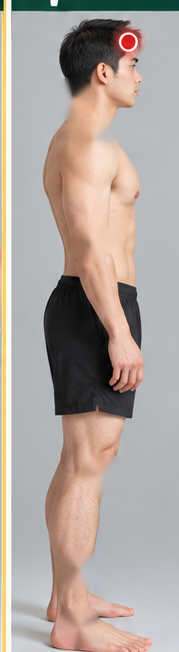
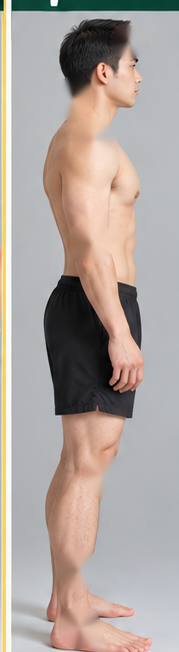
V8.8.5

Changed region(s): [[0.6145, 0.0307, 0.8101, 0.092]]

diff --git a/app.html b/app.html
@@ -8,7 +8,7 @@
 <meta name="viewport" content="width=device-width,initial-scale=1,maximum-scale=1">
 <meta name="theme-color" content="#062e24">
 <title>ThaiPain AI</title>
-<link rel="manifest" href="manifest.webmanifest?v=8.8.0-fourview">
+<link rel="manifest" href="manifest.webmanifest?v=8.8.5-rightfix">
 <meta name="apple-mobile-web-app-capable" content="yes">
 <meta name="apple-mobile-web-app-status-bar-style" content="black-translucent">
 <meta name="apple-mobile-web-app-title" content="ThaiPain AI">
@@ -32,6 +32,7 @@ input[type=text],input[type=number],select{width:100%;padding:11px;border:1px so
 .bodywrap{display:grid;grid-template-columns:1.15fr .85fr;gap:8px}.bodysvg{background:linear-gradient(180deg,#0d4638,#082c24);border-radius:18px;padding:6px;min-height:310px;position:relative}.bodysvg svg{width:100%;height:300px}.hot{fill:#f0d8c1;stroke:#baa894;stroke-width:2;cursor:pointer}.hot.sel{fill:#f64f42;stroke:#ffd36b;filter:drop-shadow(0 0 8px #f74)}.bodyNote{font-size:11px;color:white;background:#0008;border-radius:12px;padding:8px;position:absolute;left:10px;right:10px;bottom:10px}
 .sidepanel{display:flex;flex-direction:column;gap:7px}.pill{background:#e8f0e9;color:var(--deep);border-radius:99px;padding:6px 8px;font-size:10px;font-weight:800}.legend{font-size:10px;color:#66756d}
 .camera{position:relative;aspect-ratio:3/4;max-height:500px;border-radius:19px;overflow:hidden;background:#071a15;border:1px solid #426c60}video,canvas{position:absolute;inset:0;width:100%;height:100%;object-fit:cover;transform:scaleX(-1)}.camTag,.camStat,.camGuide{position:absolute;z-index:5;color:white;font-size:10px;border-radius:99px;padding:6px 8px}.camTag{top:9px;left:9px;background:#0a4c3bdd}.camStat{top:9px;right:9px;background:#0009}.camGuide{left:10px;right:10px;bottom:10px;background:#000b;text-align:center;border-radius:11px}
+.romLiveBadge{position:absolute;z-index:6;left:50%;top:14px;transform:translateX(-50%);min-width:118px;text-align:center;background:rgba(3,38,30,.88);border:1px solid rgba(244,215,127,.9);color:#fff;border-radius:15px;padding:8px 12px;box-shadow:0 8px 24px #0006;backdrop-filter:blur(4px)}.romLiveBadge .romLabel{font-size:9px;opacity:.82;letter-spacing:.04em}.romLiveBadge .romValue{font-size:26px;line-height:1;font-weight:900;color:#f4d77f;margin-top:2px}.romLiveBadge .romDir{font-size:9px;margin-top:3px;opacity:.9}.romLiveBadge.measure{box-shadow:0 0 0 3px rgba(244,215,127,.25),0 8px 24px #0006}
 .scorebox{background:linear-gradient(180deg,#0b4939,#062d24);border:1px solid #806c3b;border-radius:18px;padding:14px;color:white;text-align:center}.scorebox .v{font-size:40px;font-weight:900;color:#f4d47d}.grade{height:8px;border-radius:99px;background:linear-gradient(90deg,#35aa69,#efd05a,#e54d4d)}
 .question{padding:9px 0;border-bottom:1px solid #e6dece}.toggle{display:flex;gap:7px;margin-top:6px}.toggle button{flex:1;border:1px solid #d0c3ae;background:white;border-radius:11px;padding:8px}.toggle .selected{background:var(--deep);color:white}.ok{background:#e8f6ec;border-left:5px solid var(--green);border-radius:12px;padding:10px}.warn{background:#fff0ed;border-left:5px solid var(--red);border-radius:12px;padding:10px}
 .qrbox{display:flex;gap:10px;align-items:center;background:#f3ecde;border:1px solid #ddd0b9;border-radius:16px;padding:10px}#qrcode{width:92px;height:92px;background:white;padding:5px;border-radius:8px}.patientText{font-size:12px}.patientText b{font-size:18px;color:var(--deep)}
@@ -79,14 +80,25 @@ table{width:100%;border-collapse:collapse;font-size:10px}th,td{padding:7px;borde
 .camActions{display:grid;grid-template-columns:1fr 1fr;gap:8px;margin-top:12px}.camStatus{display:flex;gap:7px;align-items:center;border-radius:12px;padding:9px;background:#edf6ef;border:1px solid #c4dbc9;font-size:11px;margin-top:8px}
 
 .realHumanMap{position:relative;background:linear-gradient(180deg,#0d4638,#082c24);border-radius:18px;overflow:hidden;min-height:310px}
-.realHumanMap img{width:100%;height:100%;min-height:310px;object-fit:cover;display:block}.painHot{z-index:3}.painHot:not(.sel){background:rgba(255,255,255,.03);border-color:rgba(255,255,255,.30)}.painHot:not(.sel)::after{background:rgba(255,255,255,.05)}
-.painHot{position:absolute;width:46px;height:46px;border-radius:50%;border:2px solid transparent;background:rgba(255,60,45,.10);cursor:pointer;transform:translate(-50%,-50%)}
-.painHot::after{content:"";position:absolute;inset:10px;border-radius:50%;background:rgba(255,60,45,.25)}
-.painHot.sel{border-color:#ffd36b;background:rgba(255,70,50,.28);box-shadow:0 0 0 12px rgba(255,70,50,.13),0 0 18px rgba(255,70,50,.75)}
+.realHumanMap img{width:100%;height:100%;min-height:310px;object-fit:cover;display:block}.painHot{z-index:3}.painHot:not(.sel){background:transparent;border-color:transparent;box-shadow:none}.painHot:not(.sel)::after{background:transparent}
+.painHot{position:absolute;width:46px;height:46px;border-radius:50%;border:0;background:transparent;cursor:pointer;transform:translate(-50%,-50%);outline:none;-webkit-tap-highlight-color:transparent}
+.painHot::after{content:"";position:absolute;inset:10px;border-radius:50%;background:transparent}
+.painHot:focus,.painHot:focus-visible{outline:none}
+.painHot.sel{border:2px solid #ffd36b;background:rgba(255,70,50,.28);box-shadow:0 0 0 12px rgba(255,70,50,.13),0 0 18px rgba(255,70,50,.75)}
 .painHot.sel::after{background:#f64f42}
 .realHumanMap .bodyNote{z-index:5}
 
 .viewTabs{display:grid;grid-template-columns:repeat(4,1fr);gap:6px;margin:10px 0}.viewTab{border:1px solid #d9cfbd;background:#f4efe5;color:var(--deep);border-radius:12px;padding:8px 4px;font:inherit;font-size:10px;font-weight:800}.viewTab.active{background:var(--deep);color:#fff;border-color:#cda84d;box-shadow:0 0 0 2px #e5c56f inset}.selectedAreas{display:flex;flex-wrap:wrap;gap:5px;margin-top:7px}.areaTag{font-size:9px;padding:5px 7px;border-radius:99px;background:#fff;border:1px solid #d7c9b2;color:var(--deep);font-weight:700}.realHumanMap img{object-position:center top}.painHot{touch-action:manipulation}.mapHint{font-size:10px;color:#fff;background:#0008;padding:7px 9px;border-radius:10px;position:absolute;left:10px;top:10px;z-index:6}.clearPain{position:absolute;right:10px;top:10px;z-index:6;border:0;border-radius:10px;padding:7px 9px;background:#fffE;color:var(--deep);font-weight:800}
+
+/* v8.8.5: all human assets fit identically on mobile; right view is mirrored left profile */
+.realHumanMap img, #humanViewImg{
+  width:100% !important;
+  height:100% !important;
+  object-fit:contain !important;
+  object-position:center center !important;
+}
+#humanViewImg.view-right{ transform:scaleX(-1) !important; }
+
 </style>
 </head>
 <body>
@@ -129,7 +141,7 @@ table{width:100%;border-collapse:collapse;font-size:10px}th,td{padding:7px;borde
  </div>
  <div class="bodywrap">
   <div class="realHumanMap">
-   <img id="painHumanImg" src="human_front.png?v=8.8.0-fourview" alt="Four-view real human pain map">
+   <img id="painHumanImg" src="human_front.png?v=8.8.5-rightfix" alt="Four-view real human pain map">
    <div class="mapHint" id="viewHint">ด้านหน้า</div>
    <button class="clearPain" onclick="clearPainAreas()">ล้างจุด</button>
    <div id="painHotLayer"></div>
@@ -149,7 +161,7 @@ table{width:100%;border-collapse:collapse;font-size:10px}th,td{padding:7px;borde
 
 <section id="s3" class="screen"><div class="card">
  <div class="titleRow"><div class="num">03</div><div><h2>AI Body Scan</h2><div class="sub">Real-time pose landmarks</div></div></div>
- <div class="camera"><video id="video" autoplay playsinline muted></video><canvas id="overlay"></canvas><div class="camTag">● LIVE POSE AI</div><div id="aiStatus" class="camStat">Not started</div><div class="camGuide">ยืนให้เห็นศีรษะและหัวไหล่ครบ</div></div>
+ <div class="camera"><video id="video" autoplay playsinline muted></video><canvas id="overlay"></canvas><div class="camTag">● LIVE POSE AI <span id="camFacingTag"></span></div><div id="aiStatus" class="camStat">Not started</div><div id="scanRomBadge" class="romLiveBadge"><div class="romLabel">LIVE ROM / HEAD-TURN PROXY</div><div id="scanRomLive" class="romValue">0°</div><div id="scanRomDir" class="romDir">ตรงกลาง</div></div><div class="camGuide">หันศีรษะซ้าย–ขวา • ค่ามุมจะแสดงแบบ Real-time</div></div>
  <div class="conf"><div class="confDot"></div><div><b>AI Data Quality:</b> <span id="confidenceUI">Ready</span><div class="sub" style="margin:0">ระบบจะแจ้งหากแสงน้อยหรือเห็นร่างกายไม่ครบ</div></div></div>
 <button class="btn deep" onclick="startAI()">เปิดกล้อง + AI</button>
 <button class="btn soft" onclick="openCameraHelp()">🛠 แก้ปัญหากล้อง / Camera Permission</button>
@@ -202,7 +214,7 @@ table{width:100%;border-collapse:collapse;font-size:10px}th,td{padding:7px;borde
 <section id="s9" class="screen"><div class="card">
  <div class="titleRow"><div class="num">09</div><div><h2>Before / After</h2><div class="sub">วัดผลหลังการดูแล</div></div></div>
  <div class="row"><div class="metric"><div class="label">Pain AFTER</div><div class="v"><span id="painAfterTxt">3</span>/10</div><input id="painAfter" class="range" type="range" min="0" max="10" value="3" oninput="painAfterTxt.textContent=this.value"></div><div class="metric"><div class="label">Function AFTER</div><div class="v"><span id="funcAfterTxt">3</span>/10</div><input id="funcAfter" class="range" type="range" min="0" max="10" value="3" oninput="funcAfterTxt.textContent=this.value"></div></div>
- <div class="camera" style="margin-top:8px"><video id="videoAfter" autoplay playsinline muted></video><canvas id="overlayAfter"></canvas><div class="camTag">● AFTER AI</div><div id="aiStatusAfter" class="camStat">Ready</div><div class="camGuide">หันศีรษะซ้าย–ขวา แล้วจับค่า 8 วินาที</div></div>
+ <div class="camera" style="margin-top:8px"><video id="videoAfter" autoplay playsinline muted></video><canvas id="overlayAfter"></canvas><div class="camTag">● AFTER AI <span id="camFacingAfterTag"></span></div><div id="aiStatusAfter" class="camStat">Ready</div><div id="scanRomAfterBadge" class="romLiveBadge"><div class="romLabel">LIVE ROM AFTER</div><div id="scanRomAfterLive" class="romValue">0°</div><div id="scanRomAfterDir" class="romDir">ตรงกลาง</div></div><div class="camGuide">หันศีรษะซ้าย–ขวา • ค่ามุมจะแสดงแบบ Real-time</div></div>
  <div class="grid2" style="margin-top:8px"><div class="metric dark"><div class="label">AFTER LEFT</div><div id="leftAfterMax" class="v">0°</div></div><div class="metric dark"><div class="label">AFTER RIGHT</div><div id="rightAfterMax" class="v">0°</div></div></div>
  <button class="btn gold" onclick="measureAfter()">จับค่า AFTER 8 วินาที</button>
  <button class="btn deep" onclick="finishAfter()">คำนวณผล + บันทึกเคส</button>
@@ -249,7 +261,7 @@ table{width:100%;border-collapse:collapse;font-size:10px}th,td{padding:7px;borde
 <div class="camWarn"><b>ถ้ายังไม่ได้:</b><br>Android → Settings → Apps → Chrome → Permissions → Camera → Allow while using the app<br>หรือ Chrome → Settings → Site settings → Camera</div>
 <div class="camActions"><button class="btn deep" onclick="retryCameraFromHelp()">🔄 ลองเปิดกล้องอีกครั้ง</button><button class="btn gold" onclick="closeCameraHelp()">ปิด</button></div>
 </div></div>
-<div class="footer">ThaiPain AI v8.8 • Four-View Interactive Pain Map • Ancient Wisdom. Intelligent Care.</div>
+<div class="footer">ThaiPain AI v8.8.2 • Four-View Interactive Pain Map • Ancient Wisdom. Intelligent Care.</div>
 
 <script src="https://cdn.jsdelivr.net/npm/qrcodejs@1.0.0/qrcode.min.js"></script>
 <script src="https://cdn.jsdelivr.net/npm/html2canvas@1.4.1/dist/html2canvas.min.js"></script>
@@ -259,6 +271,9 @@ import {PoseLandmarker,FilesetResolver,DrawingUtils} from "https://cdn.jsdelivr.
 
 window.state={role:'guest',patientId:'TP-'+Date.now().toString().slice(-6),area:'',areas:[],pain:7,func:6,left:0,right:0,posture:78,scoreBefore:68,painAfter:3,funcAfter:3,leftAfter:0,rightAfter:0,scoreAfter:0,treatmentSeconds:0};
 window.ai={landmarker:null,stream:null,phase:'before',measuring:false,leftMax:0,rightMax:0,leftAfterMax:0,rightAfterMax:0,postureSamples:[]};
+const isMobileDevice=()=>/Android|iPhone|iPad|iPod|Mobile/i.test(navigator.userAgent)||((navigator.maxTouchPoints||0)>1&&Math.min(screen.width,screen.height)<900);
+const preferredFacingMode=()=>isMobileDevice()?'environment':'user';
+function applyCameraMirror(videoEl,canvasEl,facing){const mirror=facing==='user';if(videoEl)videoEl.style.transform=mirror?'scaleX(-1)':'none';if(canvasEl)canvasEl.style.transform=mirror?'scaleX(-1)':'none';}
 const v=document.getElementById('video'),c=document.getElementById('overlay'),cx=c.getContext('2d'),va=document.getElementById('videoAfter'),ca=document.getElementById('overlayAfter'),cxa=ca.getContext('2d');
 progress.innerHTML=Array.from({length:10},(_,i)=>`<div class="prog"></div>`).join('');
 
@@ -266,13 +281,13 @@ window.loginAs=(r)=>{state.role=r;roleBadge.textContent=r==='patient'?'Patient':
 function makeQR(){qrcode.innerHTML='';new QRCode(qrcode,{text:state.patientId,width:82,height:82,colorDark:'#06382d',colorLight:'#ffffff'})}
 window.go=(n)=>{document.querySelectorAll('.screen').forEach(x=>x.classList.remove('active'));const id=typeof n==='number'?'s'+n:n;document.getElementById(id).classList.add('active');document.querySelectorAll('.prog').forEach((x,i)=>x.classList.toggle('on',typeof n==='number'&&i<n));window.scrollTo({top:0,behavior:'smooth'})};
 const painViews={
- front:{label:'ด้านหน้า',img:'human_front.png?v=8.8.0-fourview',zones:[
+ front:{label:'ด้านหน้า',img:'human_front.png?v=8.8.5-rightfix',zones:[
   ['หน้าผาก',50,10],['คอด้านหน้า',50,19],['ไหล่ขวา',30,25],['ไหล่ซ้าย',70,25],['หน้าอก',50,35],['ท้อง',50,50],['ศอกขวา',18,47],['ศอกซ้าย',82,47],['ข้อมือขวา',14,62],['ข้อมือซ้าย',86,62],['เข่าขวา',34,76],['เข่าซ้าย',66,76],['ข้อเท้าขวา',32,92],['ข้อเท้าซ้าย',68,92]]},
- back:{label:'ด้านหลัง',img:'human_back.png?v=8.8.0-fourview',zones:[
+ back:{label:'ด้านหลัง',img:'human_back.png?v=8.8.5-rightfix',zones:[
   ['คอ',50,21],['บ่าขวา',32,29],['บ่าซ้าย',69,29],['หลังส่วนบน',50,39],['หลังส่วนล่าง',50,62],['ศอกขวา',22,56],['ศอกซ้าย',80,56],['สะโพกขวา',37,86],['สะโพกซ้าย',67,86],['น่องขวา',38,94],['น่องซ้าย',63,94]]},
- left:{label:'ด้านซ้าย',img:'human_left.png?v=8.8.0-fourview',zones:[
+ left:{label:'ด้านซ้าย',img:'human_left.png?v=8.8.5-rightfix',zones:[
   ['ศีรษะซ้าย',52,10],['คอซ้าย',50,19],['หัวไหล่ซ้าย',48,26],['ต้นแขนซ้าย',43,36],['ศอกซ้าย',42,47],['ข้อมือซ้าย',40,60],['สะโพกซ้าย',49,67],['เข่าซ้าย',53,78],['น่องซ้าย',54,87],['ข้อเท้าซ้าย',55,95]]},
- right:{label:'ด้านขวา',img:'human_right.png?v=8.8.0-fourview',zones:[
+ right:{label:'ด้านขวา',img:'human_right.png?v=8.8.5-rightfix',zones:[
   ['ศีรษะขวา',48,10],['คอขวา',50,19],['หัวไหล่ขวา',52,26],['ต้นแขนขวา',57,36],['ศอกขวา',58,47],['ข้อมือขวา',60,60],['สะโพกขวา',51,67],['เข่าขวา',47,78],['น่องขวา',46,87],['ข้อเท้าขวา',45,95]]}
 };
 window.currentPainView='front';
@@ -294,7 +309,7 @@ async function initPose(){
  ai.landmarker=await PoseLandmarker.createFromOptions(vision,{baseOptions:{modelAssetPath:"https://storage.googleapis.com/mediapipe-models/pose_landmarker/pose_landmarker_lite/float16/1/pose_landmarker_lite.task",delegate:"CPU"},runningMode:"VIDEO",numPoses:1,minPoseDetectionConfidence:.5,minPosePresenceConfidence:.5,minTrackingConfidence:.5});
  aiStatus.textContent='AI Ready';
 }
-window.startAI=async()=>{try{await initPose();if(!ai.stream)ai.stream=await navigator.mediaDevices.getUserMedia({video:{facingMode:'user',width:{ideal:720},height:{ideal:960}},audio:false});v.srcObject=ai.stream;await v.play();requestAnimationFrame(()=>loop(v,c,cx,'before'))}catch(e){alert('เปิดกล้องไม่ได้: '+e.message)}};
+window.startAI=async()=>{try{await initPose();const facing=preferredFacingMode();if(ai.stream){ai.stream.getTracks().forEach(t=>t.stop());ai.stream=null}ai.stream=await navigator.mediaDevices.getUserMedia({video:{facingMode:{ideal:facing},width:{ideal:720},height:{ideal:960}},audio:false});v.srcObject=ai.stream;applyCameraMirror(v,c,facing);if(window.camFacingTag)camFacingTag.textContent=facing==='environment'?'• กล้องหลัง':'• กล้องหน้า';await v.play();requestAnimationFrame(()=>loop(v,c,cx,'before'))}catch(e){alert('เปิดกล้องไม่ได้: '+e.message)}};
 function fit(vv,cc){if(vv.videoWidth&&cc.width!==vv.videoWidth){cc.width=vv.videoWidth;cc.height=vv.videoHeight}}
 function yaw(lm){const n=lm[0],le=lm[7],re=lm[8];if(!n||!le||!re)return 0;const span=Math.max(Math.abs(re.x-le.x),.02),mid=(le.x+re.x)/2;return Math.max(-70,Math.min(70,((n.x-mid)/(span/2))*45))}
 function postureMetric(lm){
@@ -308,12 +323,12 @@ function loop(vv,cc,xx,phase){
   const stat=phase==='before'?aiStatus:aiStatusAfter;
   if(r.landmarks?.length){
    const lm=r.landmarks[0],du=new DrawingUtils(xx);du.drawConnectors(lm,PoseLandmarker.POSE_CONNECTIONS,{color:'#55f0ad',lineWidth:4});du.drawLandmarks(lm,{color:'#f2ce72',radius:3});stat.textContent='Pose detected ✓';
-   const y=yaw(lm);if(phase==='before'){liveYaw.textContent=(y>=0?'+':'')+y.toFixed(0)+'°';ai.postureSamples.push(postureMetric(lm));if(ai.postureSamples.length>30)ai.postureSamples.shift();if(ai.measuring&&ai.phase==='before'){if(y<0)ai.leftMax=Math.max(ai.leftMax,Math.abs(y));else ai.rightMax=Math.max(ai.rightMax,y);leftMax.textContent=ai.leftMax.toFixed(0)+'°';rightMax.textContent=ai.rightMax.toFixed(0)+'°'}}else if(ai.measuring&&ai.phase==='after'){if(y<0)ai.leftAfterMax=Math.max(ai.leftAfterMax,Math.abs(y));else ai.rightAfterMax=Math.max(ai.rightAfterMax,y);leftAfterMax.textContent=ai.leftAfterMax.toFixed(0)+'°';rightAfterMax.textContent=ai.rightAfterMax.toFixed(0)+'°'}
+   const y=yaw(lm);const absY=Math.abs(y);const dir=absY<3?'ตรงกลาง':(y<0?'หันซ้าย':'หันขวา');if(phase==='before'){liveYaw.textContent=(y>=0?'+':'')+y.toFixed(0)+'°';if(window.scanRomLive)scanRomLive.textContent=absY.toFixed(0)+'°';if(window.scanRomDir)scanRomDir.textContent=dir;if(window.scanRomBadge)scanRomBadge.classList.toggle('measure',!!(ai.measuring&&ai.phase==='before'));ai.postureSamples.push(postureMetric(lm));if(ai.postureSamples.length>30)ai.postureSamples.shift();if(ai.measuring&&ai.phase==='before'){if(y<0)ai.leftMax=Math.max(ai.leftMax,absY);else ai.rightMax=Math.max(ai.rightMax,y);leftMax.textContent=ai.leftMax.toFixed(0)+'°';rightMax.textContent=ai.rightMax.toFixed(0)+'°'}}else{if(window.scanRomAfterLive)scanRomAfterLive.textContent=absY.toFixed(0)+'°';if(window.scanRomAfterDir)scanRomAfterDir.textContent=dir;if(window.scanRomAfterBadge)scanRomAfterBadge.classList.toggle('measure',!!(ai.measuring&&ai.phase==='after'));if(ai.measuring&&ai.phase==='after'){if(y<0)ai.leftAfterMax=Math.max(ai.leftAfterMax,absY);else ai.rightAfterMax=Math.max(ai.rightAfterMax,y);leftAfterMax.textContent=ai.leftAfterMax.toFixed(0)+'°';rightAfterMax.textContent=ai.rightAfterMax.toFixed(0)+'°'}}
   }else stat.textContent='No pose';
  }catch(e){}}
  requestAnimationFrame(()=>loop(vv,cc,xx,phase))
 }
-window.measureBefore=()=>{if(!ai.stream){alert('กรุณาเปิดกล้องก่อน');return}ai.leftMax=0;ai.rightMax=0;ai.phase='before';ai.measuring=true;setTimeout(()=>{ai.measuring=false;alert('บันทึก BEFORE แล้ว')},8000)};
+window.measureBefore=()=>{if(!ai.stream){alert('กรุณาเปิดกล้องก่อน');return}ai.leftMax=0;ai.rightMax=0;ai.phase='before';ai.measuring=true;if(window.scanRomBadge)scanRomBadge.classList.add('measure');setTimeout(()=>{ai.measuring=false;if(window.scanRomBadge)scanRomBadge.classList.remove('measure');alert('บันทึก BEFORE แล้ว • ซ้าย '+ai.leftMax.toFixed(0)+'° • ขวา '+ai.rightMax.toFixed(0)+'°')},8000)};
 function calcScore(pain,func,l,r,posture){const rlim=Math.max(0,60-Math.min(l||35,r||35));return Math.round(Math.min(100,pain*4+func*2+rlim*.65+(100-posture)*.18))}
 window.finishBefore=()=>{state.left=Math.round(ai.leftMax||62);state.right=Math.round(ai.rightMax||41);state.posture=Math.round(ai.postureSamples.reduce((a,b)=>a+b,0)/Math.max(1,ai.postureSamples.length))||78;state.scoreBefore=calcScore(state.pain,state.func,state.left,state.right,state.posture);resPain.textContent=state.pain+'/10';resRom.textContent=state.right+'°';postureScore.textContent=state.posture;thaiScore.textContent=state.scoreBefore+' / 100';go(5)};
 
@@ -323,8 +338,8 @@ window.setAns=(i,v,b)=>{ans[i]=v;[...b.parentElement.children].forEach(x=>x.clas
 window.evalSafety=()=>{if(ans.some(Boolean)){safeResult.className='warn';safeResult.innerHTML='<b>⚠ SAFETY ALERT</b><br>หยุด flow คำแนะนำการนวดและควรได้รับการประเมินโดยบุคลากรทางการแพทย์'}else{safeResult.className='ok';safeResult.innerHTML='<b>✓ ไม่พบสัญญาณความเสี่ยงจากการคัดกรองเบื้องต้น</b><br><button class="btn gold" onclick="go(7)">ดำเนินการต่อ →</button>'}};
 
 let sec=0,tm=null;window.toggleTimer=()=>{if(tm){clearInterval(tm);tm=null;return}tm=setInterval(()=>{sec++;state.treatmentSeconds=sec;timer.textContent=[Math.floor(sec/3600),Math.floor(sec%3600/60),sec%60].map(x=>String(x).padStart(2,'0')).join(':')},1000)};
-window.prepareAfterCamera=async()=>{try{await initPose();if(!ai.stream)ai.stream=await navigator.mediaDevices.getUserMedia({video:{facingMode:'user'},audio:false});va.srcObject=ai.stream;await va.play();requestAnimationFrame(()=>loop(va,ca,cxa,'after'))}catch(e){alert('เปิดกล้อง AFTER ไม่ได้: '+e.message)}};
-window.measureAfter=()=>{if(!ai.stream){alert('กรุณาเปิดกล้องก่อน');return}ai.leftAfterMax=0;ai.rightAfterMax=0;ai.phase='after';ai.measuring=true;setTimeout(()=>{ai.measuring=false;alert('บันทึก AFTER แล้ว')},8000)};
+window.prepareAfterCamera=async()=>{try{await initPose();const facing=preferredFacingMode();if(ai.stream){ai.stream.getTracks().forEach(t=>t.stop());ai.stream=null}ai.stream=await navigator.mediaDevices.getUserMedia({video:{facingMode:{ideal:facing},width:{ideal:720},height:{ideal:960}},audio:false});va.srcObject=ai.stream;applyCameraMirror(va,ca,facing);if(window.camFacingAfterTag)camFacingAfterTag.textContent=facing==='environment'?'• กล้องหลัง':'• กล้องหน้า';await va.play();requestAnimationFrame(()=>loop(va,ca,cxa,'after'))}catch(e){alert('เปิดกล้อง AFTER ไม่ได้: '+e.message)}};
+window.measureAfter=()=>{if(!ai.stream){alert('กรุณาเปิดกล้องก่อน');return}ai.leftAfterMax=0;ai.rightAfterMax=0;ai.phase='after';ai.measuring=true;if(window.scanRomAfterBadge)scanRomAfterBadge.classList.add('measure');setTimeout(()=>{ai.measuring=false;if(window.scanRomAfterBadge)scanRomAfterBadge.classList.remove('measure');alert('บันทึก AFTER แล้ว • ซ้าย '+ai.leftAfterMax.toFixed(0)+'° • ขวา '+ai.rightAfterMax.toFixed(0)+'°')},8000)};
 window.finishAfter=()=>{state.painAfter=+painAfter.value;state.funcAfter=+funcAfter.value;state.leftAfter=Math.round(ai.leftAfterMax||Math.min(70,state.left+8));state.rightAfter=Math.round(ai.rightAfterMax||Math.min(70,state.right+15));state.scoreAfter=calcScore(state.painAfter,state.funcAfter,state.leftAfter,state.rightAfter,Math.min(100,state.posture+6));const pi=Math.max(0,(state.pain-state.painAfter)/Math.max(1,state.pain)*100),rc=state.rightAfter-state.right;outcomeBox.className='ok';outcomeBox.innerHTML=`<b>ผลลัพธ์</b><br>Pain ${state.pain} → ${state.painAfter} (${pi.toFixed(0)}% improvement)<br>R Proxy ${state.right}° → ${state.rightAfter}° (${rc>=0?'+':''}${rc}°)<br>ThaiPain Score ${state.scoreBefore} → ${state.scoreAfter}`;saveCase()};
 function saveCase(){const arr=JSON.parse(localStorage.getItem('thaipain_v6')||'[]');const item={...state,createdAt:new Date().toISOString()};const i=arr.findIndex(x=>x.patientId===item.patientId);if(i>=0)arr[i]=item;else arr.push(item);localStorage.setItem('thaipain_v6',JSON.stringify(arr))}
 window.renderAnalytics=()=>{const arr=JSON.parse(localStorage.getItem('thaipain_v6')||'[]');kCases.textContent=arr.length;if(arr.length){const ap=arr.reduce((s,x)=>s+Math.max(0,(x.pain-x.painAfter)/Math.max(1,x.pain)*100),0)/arr.length,ar=arr.reduce((s,x)=>s+(x.rightAfter-x.right),0)/arr.length,as=arr.reduce((s,x)=>s+x.scoreAfter,0)/arr.length;kPain.textContent=ap.toFixed(0)+'%';kRom.textContent=(ar>=0?'+':'')+ar.toFixed(1)+'°';kScore.textContent=as.toFixed(0)}else{kPain.textContent='0%';kRom.textContent='0°';kScore.textContent='0'}rows.innerHTML=arr.slice().reverse().map(x=>`<tr><td>${x.patientId}</td><td>${x.pain}→${x.painAfter}</td><td>${x.right}→${x.rightAfter}°</td><td>${x.scoreBefore}→${x.scoreAfter}</td></tr>`).join('')};
@@ -370,7 +385,7 @@ window.installPWA=async()=>{
   const isiOS=/iPad|iPhone|iPod/.test(ua);
   if(isiOS){const el=document.getElementById('iosInstall');if(el)el.style.display='block';}
   if('serviceWorker' in navigator){
-    window.addEventListener('load',()=>navigator.serviceWorker.register('./sw.js?v=8.8.0-fourview').catch(()=>{}));
+    window.addEventListener('load',()=>navigator.serviceWorker.register('./sw.js?v=8.8.5-rightfix').catch(()=>{}));
   }
 })();
 </script>
@@ -441,7 +456,8 @@ async function updateCameraPermissionUI(){
 async function retryCameraFromHelp(){
  closeCameraHelp();
  try{
-   const s=await navigator.mediaDevices.getUserMedia({video:{facingMode:'user'},audio:false});
+   const facing=preferredFacingMode();
+   const s=await navigator.mediaDevices.getUserMedia({video:{facingMode:{ideal:facing}},audio:false});
    s.getTracks().forEach(x=>x.stop());
    const t=document.getElementById('camPermText'); if(t)t.textContent='Allowed';
    setTimeout(()=>startAI(),250);
@@ -464,4 +480,19 @@ window.startAI=async function(){
 };
 window.addEventListener('load',updateCameraPermissionUI);
 </script>
+
+<script>
+document.addEventListener('DOMContentLoaded',()=>{
+  const img=document.getElementById('humanViewImg');
+  const sync=()=>{
+    if(!img) return;
+    const active=document.querySelector('.viewTab.active,[data-view].active');
+    const v=active && active.dataset ? active.dataset.view : '';
+    img.classList.toggle('view-right', v==='right');
+  };
+  document.querySelectorAll('[data-view]').forEach(b=>b.addEventListener('click',()=>setTimeout(sync,0)));
+  sync();
+});
+</script>
+
 </body></html>

diff --git a/verify.html b/verify.html
@@ -1,1 +1,1 @@
-<!doctype html><meta charset="utf-8"><meta name="viewport" content="width=device-width"><title>ThaiPainAI v8.8 Verify</title><style>body{font-family:system-ui;background:#06382d;color:white;text-align:center;padding:30px}img{max-height:220px;margin:6px;border-radius:14px}.box{background:#fff;color:#06382d;padding:20px;border-radius:20px}</style><div class=box><h1>✅ ThaiPainAI v8.8 FOUR VIEW READY</h1><p>ถ้าเห็นรูป 4 มุมด้านล่าง แปลว่า Deploy ถูกต้อง</p><img src="human_front.png?v=8.8"><img src="human_back.png?v=8.8"><img src="human_left.png?v=8.8"><img src="human_right.png?v=8.8"><p><a href="app.html?v=8.8.0-fourview">เปิดแอป v8.8</a></p></div>
+<!doctype html><meta charset="utf-8"><meta name="viewport" content="width=device-width"><title>ThaiPainAI v8.8.5 Verify</title><style>body{font-family:system-ui;background:#06382d;color:white;text-align:center;padding:30px}img{max-height:220px;margin:6px;border-radius:14px}.box{background:#fff;color:#06382d;padding:20px;border-radius:20px}</style><div class=box><h1>✅ ThaiPainAI v8.8.5 CLEAN HOTSPOTS READY</h1><p>ถ้าเห็นรูป 4 มุมด้านล่าง แปลว่า Deploy ถูกต้อง</p><img src="human_front.png?v=8.8"><img src="human_back.png?v=8.8"><img src="human_left.png?v=8.8"><img src="human_right.png?v=8.8"><p><a href="app.html?v=8.8.5-rightfix">เปิดแอป v8.8.5</a></p></div>

diff --git a/index.html b/index.html
@@ -1,7 +1,7 @@
 <!doctype html><html lang="th"><head>
 <meta charset="utf-8"><meta name="viewport" content="width=device-width,initial-scale=1">
 <meta http-equiv="Cache-Control" content="no-cache, no-store, must-revalidate"><meta http-equiv="Pragma" content="no-cache"><meta http-equiv="Expires" content="0">
-<meta name="theme-color" content="#062e24"><link rel="manifest" href="manifest.webmanifest?v=8.8.0-fourview"><title>ThaiPainAI</title>
+<meta name="theme-color" content="#062e24"><link rel="manifest" href="manifest.webmanifest?v=8.8.5-rightfix"><title>ThaiPainAI</title>
 <style>body{margin:0;background:#062e24;color:#fff;font-family:system-ui,-apple-system,'Noto Sans Thai',sans-serif;display:grid;place-items:center;min-height:100vh}.box{text-align:center;padding:28px}.spin{font-size:44px}.small{opacity:.8;font-size:13px}</style></head><body><div class="box"><div class="spin">✦</div><h2>ThaiPainAI</h2><div class="small">กำลังเปิดเวอร์ชันล่าสุด…</div></div>
 <script>
 (async()=>{
@@ -12,6 +12,6 @@
     }
     if('caches' in window){for(const k of await caches.keys()){await caches.delete(k);}}
   }catch(e){}
-  location.replace('./app.html?v=8.8.0-fourview&t='+Date.now());
+  location.replace('./app.html?v=8.8.5-rightfix&t='+Date.now());
 })();
 </script></body></html>

diff --git a/sw.js b/sw.js
@@ -1,4 +1,4 @@
-const CACHE='thaipain-v8.8-fourview';
+const CACHE='thaipain-v8.8.5-rightfix';
 const CORE=['./','./index.html','./app.html','./manifest.webmanifest','./human_front.png','./human_back.png','./human_left.png','./human_right.png','./icon-192.png','./icon-512.png','./offline.html'];
 self.addEventListener('install',e=>{self.skipWaiting();e.waitUntil(caches.open(CACHE).then(c=>c.addAll(CORE)).catch(()=>{}))});
 self.addEventListener('activate',e=>{e.waitUntil(caches.keys().then(keys=>Promise.all(keys.filter(k=>k!==CACHE).map(k=>caches.delete(k)))).then(()=>self.clients.claim()))});
